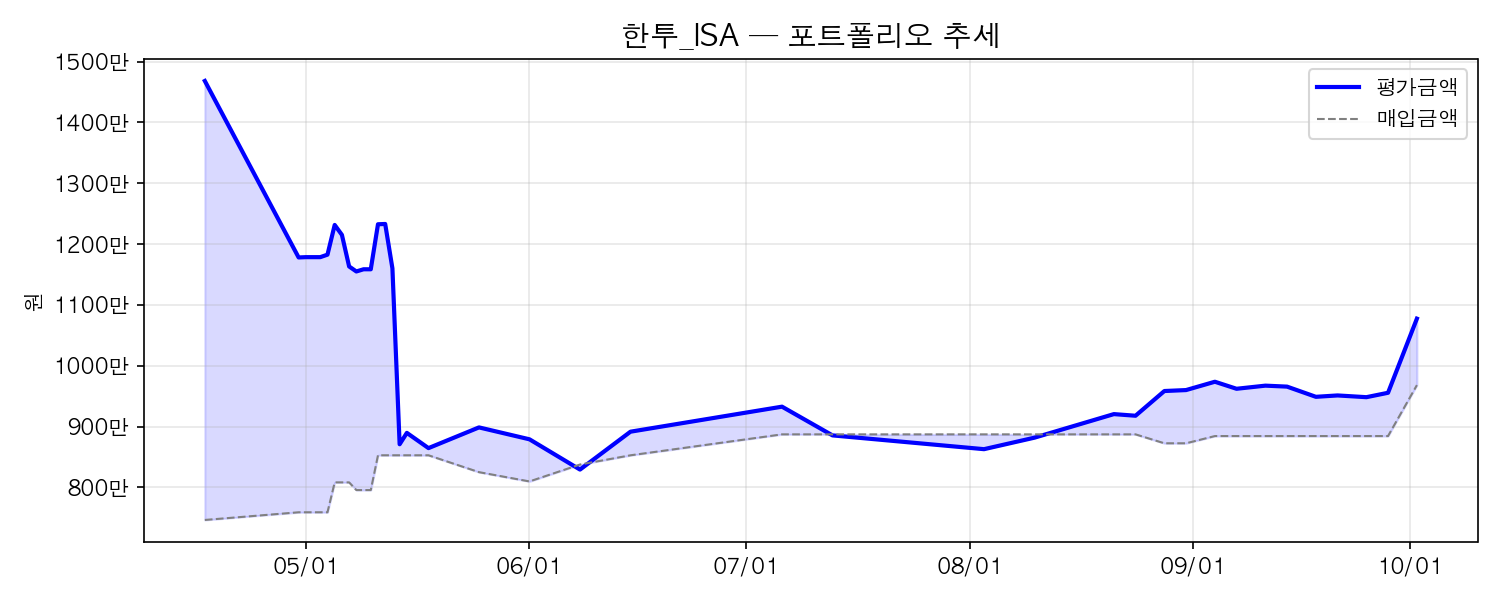
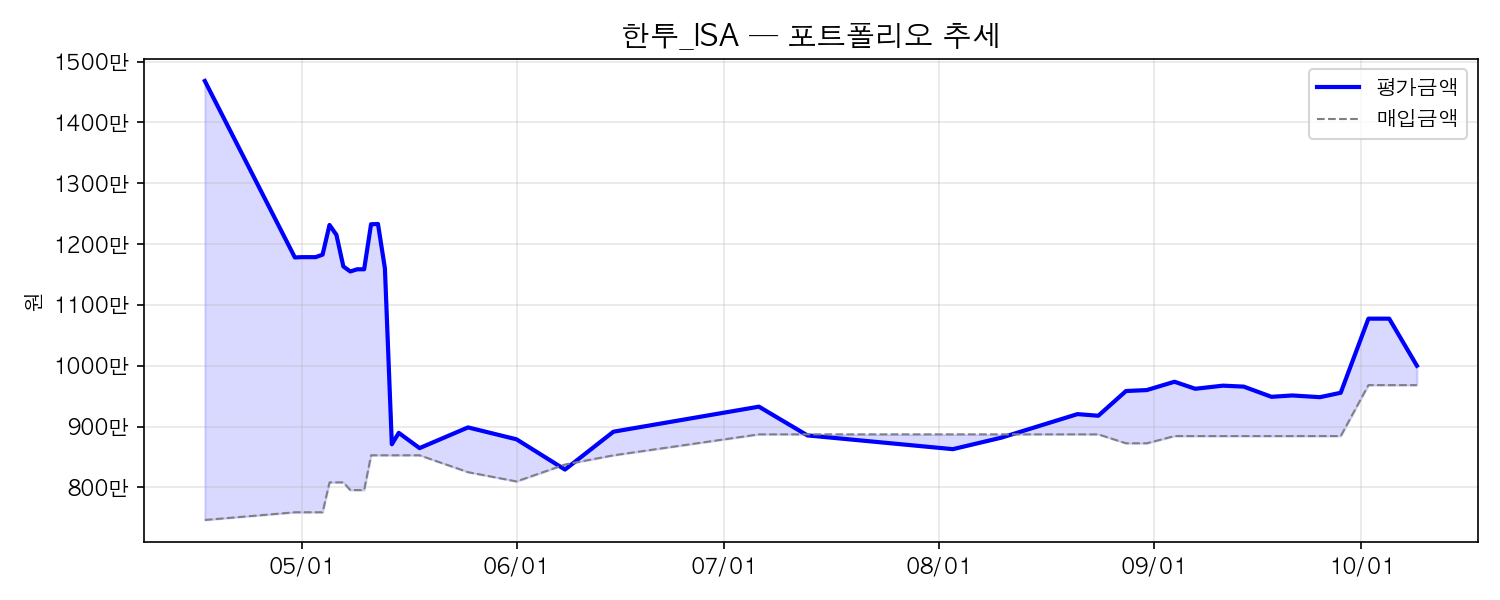
섹션별 주간 리포트 (자동 생성)

diff --git a/_posts/2026-10-09-etf-weekly-week27.md b/_posts/2026-10-09-etf-weekly-week27.md
@@ -1,0 +1,50 @@
+---
+layout: post
+title: "Week 27 — 부모님 연금 ETF 주간 리포트"
+date: 2026-10-09
+categories: [investing, etf]
+tags: [weekly]
+---
+
+> 부모님 연금저축 ETF 실험 — 27주차 기록.
+
+---
+
+## 27주차 성과
+
+### 엄마_연금
+
+| 종목 | 수량 | 평단가 | 종가 | 평가액 | 수익률 |
+|------|------|--------|------|--------|--------|
+| RISE 200 | 12주 | ₩86,453 | ₩106,515 | ₩1,278,180 | +23.2% |
+| ACE KRX금현물 | 47주 | ₩30,513 | ₩24,770 | ₩1,164,190 | -18.8% |
+| KODEX 미국S&P500 | 43주 | ₩23,192 | ₩23,505 | ₩1,010,715 | +1.3% |
+| TIGER Fn신재생에너지 | 31주 | ₩27,199 | ₩24,510 | ₩759,810 | -9.9% |
+| KODEX 인도Nifty50 | 44주 | ₩12,372 | ₩10,355 | ₩455,620 | -16.3% |
+| KODEX 고배당주 | 11주 | ₩17,127 | ₩17,110 | ₩188,210 | -0.1% |
+
+**투자 ₩5,044,732 → 평가 ₩4,856,725 | -188,007원 (-3.7%)**
+
+예수금: ₩1,730,253
+---
+
+### 아빠_연금
+
+| 종목 | 수량 | 평단가 | 종가 | 평가액 | 수익률 |
+|------|------|--------|------|--------|--------|
+| RISE 200 | 12주 | ₩86,489 | ₩106,515 | ₩1,278,180 | +23.1% |
+| ACE KRX금현물 | 47주 | ₩30,514 | ₩24,770 | ₩1,164,190 | -18.8% |
+| KODEX 미국S&P500 | 43주 | ₩23,191 | ₩23,505 | ₩1,010,715 | +1.4% |
+| TIGER Fn신재생에너지 | 31주 | ₩27,193 | ₩24,510 | ₩759,810 | -9.9% |
+| KODEX 인도Nifty50 | 44주 | ₩12,379 | ₩10,355 | ₩455,620 | -16.4% |
+| TIGER 미국배당다우존스 | 14주 | ₩13,958 | ₩13,840 | ₩193,760 | -0.8% |
+| PLUS 고배당주 | 1주 | ₩25,370 | ₩23,900 | ₩23,900 | -5.8% |
+
+**투자 ₩5,077,672 → 평가 ₩4,886,175 | -191,497원 (-3.8%)**
+
+예수금: ₩1,118,358
+
+
+---
+
+*데이터: 한국투자증권 KIS Open API / 2026-10-09 장 마감 기준*

diff --git a/_posts/2026-10-09-dividend-weekly-week27.md b/_posts/2026-10-09-dividend-weekly-week27.md
@@ -1,0 +1,32 @@
+---
+layout: post
+title: "Week 27 — ISA 배당 포트 주간 리포트"
+date: 2026-10-09
+categories: [investing, dividend]
+tags: [weekly]
+---
+
+> ISA 배당 포트폴리오 — 27주차 기록.
+
+---
+
+## 27주차 성과
+
+### 한투_ISA
+
+| 종목 | 수량 | 평단가 | 종가 | 평가액 | 수익률 |
+|------|------|--------|------|--------|--------|
+| 빙그레 | 23주 | ₩73,386 | ₩87,900 | ₩2,021,700 | +19.8% |
+| 고려신용정보 | 218주 | ₩10,004 | ₩9,110 | ₩1,985,980 | -8.9% |
+| KODEX 고배당주 | 115주 | ₩17,942 | ₩17,110 | ₩1,967,650 | -4.6% |
+| KT&G | 11주 | ₩168,800 | ₩177,400 | ₩1,951,400 | +5.1% |
+| 삼성화재우 | 5주 | ₩378,520 | ₩386,000 | ₩1,930,000 | +2.0% |
+
+**투자 ₩9,681,578 → 평가 ₩9,856,730 | +175,152원 (+1.8%)**
+
+예수금: ₩143,587
+
+
+---
+
+*데이터: 한국투자증권 KIS Open API / 2026-10-09 장 마감 기준*
